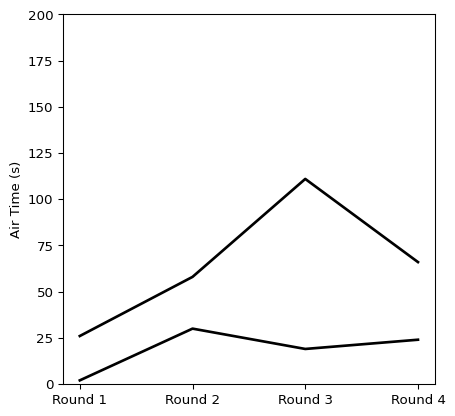
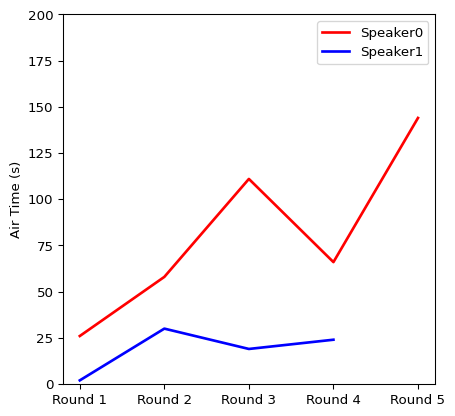
modified sentiment calculation and upgraded plotters

diff --git a/plotter.py b/plotter.py
@@ -1,23 +1,24 @@
 import matplotlib.pyplot as plt
 import pandas as pd
 
-def plotSpeech(rates):
+def plotSpeech(dataDict):
     #takes in a dictionary of speakers and rates and plots them as line graphs
-    # equalize the length of each list for plotting
+    # get the size of the largest list
     size = 0
-    for key in rates.keys():
-        compare = len(rates[key])
+    for key in dataDict.keys():
+        compare = len(dataDict[key])
         if size == 0:
             size = compare
-        elif size > compare:
+        elif size < compare:
             size = compare
+        
+    # equalize the smaller list to the larger
+    for value in dataDict.values():
+        while len(value) < size:
+            value.append(None)
 
-    # Make a data frame
-    df=pd.DataFrame({
-        'x': ["Round " + str(i+1) for i in range(0, size)], 
-        'y1': rates['Speaker0'][:size], 
-        'y2': rates['Speaker1'][:size]
-        })
+    # define domain
+    xaxis = ["Round " + str(i+1) for i in range(0, size)]
 
     # set figure size
     my_dpi=96
@@ -30,26 +31,28 @@ def plotSpeech(rates):
     plt.ylabel("Rate of Speech (wpm)")
 
     # plot multiple lines
-    for column in df.drop('x', axis=1):
-        plt.plot(df['x'], df[column], marker='', color='black', linewidth=2, alpha=1)
+    plt.plot(xaxis, dataDict['Speaker0'], label= 'Speaker0', marker='', color='red', linewidth=2, alpha=1)
+    plt.plot(xaxis, dataDict['Speaker1'], label= 'Speaker1', marker='', color='blue', linewidth=2, alpha=1)
+    plt.legend()
 
-def plotTime(times):
+def plotTime(dataDict):
     #takes in a dictionary of talking times per speaker and plots them as line graphs
-    # equalize the length of each list for plotting
+    # get the size of the largest list
     size = 0
-    for key in times.keys():
-        compare = len(times[key])
+    for key in dataDict.keys():
+        compare = len(dataDict[key])
         if size == 0:
             size = compare
-        elif size > compare:
+        elif size < compare:
             size = compare
+        
+    # equalize the smaller list to the larger
+    for value in dataDict.values():
+        while len(value) < size:
+            value.append(None)
 
-    # Make a data frame
-    df=pd.DataFrame({
-        'x': ["Round " + str(i+1) for i in range(0, size)], 
-        'y1': times['Speaker0'][:size], 
-        'y2': times['Speaker1'][:size]
-        })
+    # define domain
+    xaxis = ["Round " + str(i+1) for i in range(0, size)]
 
     # set figure size
     my_dpi=96
@@ -62,26 +65,28 @@ def plotTime(times):
     plt.ylabel("Air Time (s)")
 
     # plot multiple lines
-    for column in df.drop('x', axis=1):
-        plt.plot(df['x'], df[column], marker='', color='black', linewidth=2, alpha=1)
+    plt.plot(xaxis, dataDict['Speaker0'], label= 'Speaker0', marker='', color='red', linewidth=2, alpha=1)
+    plt.plot(xaxis, dataDict['Speaker1'], label= 'Speaker1', marker='', color='blue', linewidth=2, alpha=1)
+    plt.legend()
 
-def plotFeeling(sentiments):
+def plotFeeling(dataDict):
     #takes in a dictionary of talking times per speaker and plots them as line graphs
-    # equalize the length of each list for plotting
+    # get the size of the largest list
     size = 0
-    for key in sentiments.keys():
-        compare = len(sentiments[key])
+    for key in dataDict.keys():
+        compare = len(dataDict[key])
         if size == 0:
             size = compare
-        elif size > compare:
+        elif size < compare:
             size = compare
+        
+    # equalize the smaller list to the larger
+    for value in dataDict.values():
+        while len(value) < size:
+            value.append(None)
 
-    # Make a data frame
-    df=pd.DataFrame({
-        'x': ["Round " + str(i+1) for i in range(0, size)], 
-        'y1': sentiments['Speaker0'][:size], 
-        'y2': sentiments['Speaker1'][:size]
-        })
+    # define domain
+    xaxis = ["Round " + str(i+1) for i in range(0, size)]
 
     # set figure size
     my_dpi=96
@@ -94,18 +99,16 @@ def plotFeeling(sentiments):
     plt.ylabel("Sentiment")
 
     # plot multiple lines
-    for column in df.drop('x', axis=1):
-        plt.plot(df['x'], df[column], marker='', color='black', linewidth=2, alpha=1)
+    plt.plot(xaxis, dataDict['Speaker0'], label= 'Speaker0', marker='', color='red', linewidth=2, alpha=1)
+    plt.plot(xaxis, dataDict['Speaker1'], label= 'Speaker1', marker='', color='blue', linewidth=2, alpha=1)
+    plt.legend()
 
-def plotCongruence(similarity):
+def plotCongruence(dataDict):
     #takes in a list of turn congruencies and plots it as a line graph
-    size = len(similarity['Speakers'])
 
-    # Make a data frame
-    df=pd.DataFrame({
-        'x': ["Turn " + str(i+1) for i in range(0, size)], 
-        'y1': similarity['Speakers'][:size] 
-        })
+    # define domain
+    size = len(dataDict['Speakers'])
+    xaxis = ["Turn " + str(i+1) for i in range(0, size)]
 
     # set figure size
     my_dpi=96
@@ -117,6 +120,5 @@ def plotCongruence(similarity):
     # add labels
     plt.ylabel("Congruence (perc)")
 
-    # plot multiple lines
-    for column in df.drop('x', axis=1):
-        plt.plot(df['x'], df[column], marker='', color='black', linewidth=2, alpha=1)
+    plt.plot(xaxis, dataDict['Speakers'], label='Speakers', marker='', color='black', linewidth=2, alpha=1)
+    plt.legend()

diff --git a/analyzer.py b/analyzer.py
@@ -79,13 +79,23 @@ def feelRate(speakerList, transcriptList):
     sentimentList = []
 
     #the model used gives a score out of 5 then a confidence percentage
-    #I took the score, then subtracted the tail of the confidence percentage
-    #then mapped it between -1 and 1
     for text in transcriptList:
         sentiment = sentimentPipeline(text[:500])[0]
-        score = round(int(sentiment['label'][0]) - (1 - sentiment['score']), 1)
-        score = interp(score, [1, 5], [-1, 1])
-        sentimentList.append(round(score, 2))
+        starRating = round(int(sentiment['label'][0]))
+        confidence = sentiment['score']
+
+        #the following score remapping strategy is meant to show conversations as more neutral unless 
+        #it detects strong positive or negative affectation with a lot of confidence
+
+        starRating = starRating - 3 #shifts the range down between -2 and 2
+        if starRating >= 0:
+            starRating -= (1-confidence) #positive scores become less positive if confidence is not high
+        else:
+            starRating += (1-confidence) #negative scores become more neutral if confidence is not high 
+
+        starRating = interp(starRating, [-2, 2], [-1, 1])
+
+        sentimentList.append(round(starRating, 2))
 
     output = {}
     for i, t in zip(speakerList, sentimentList):
